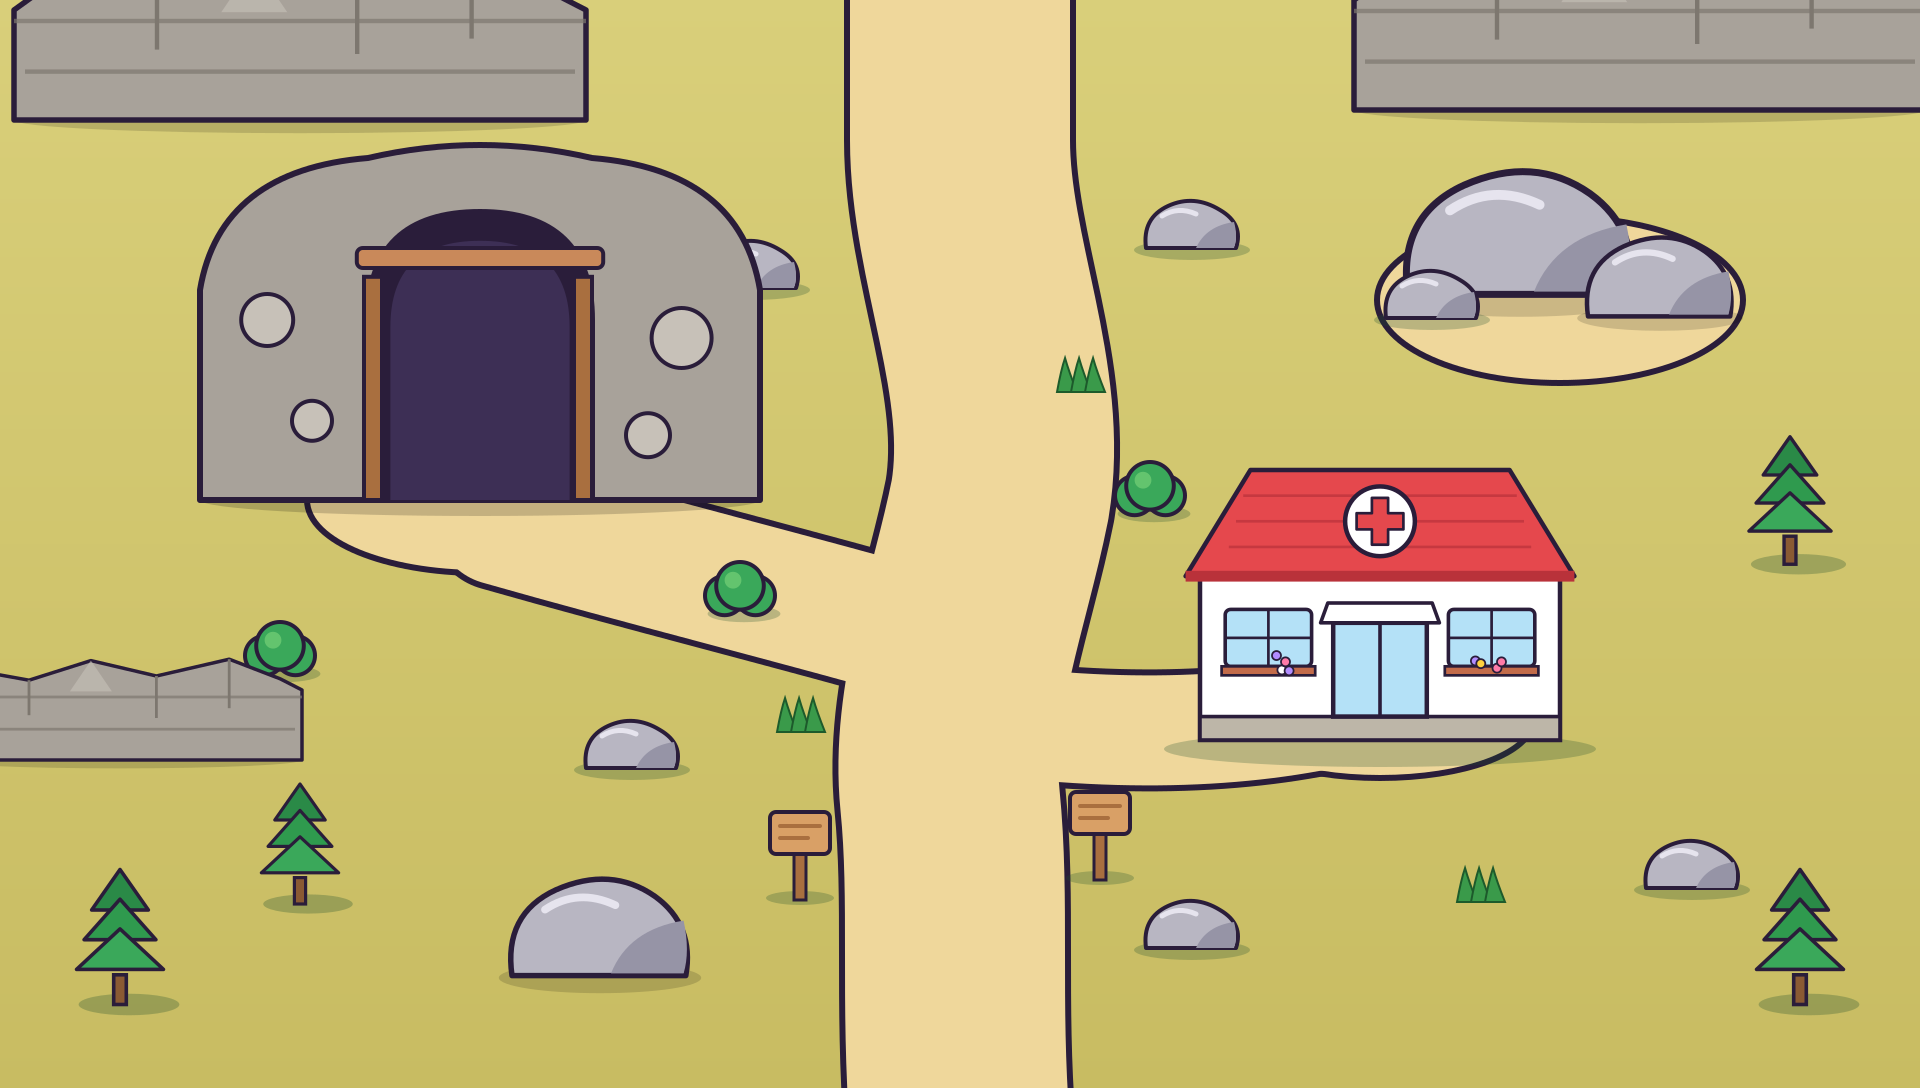
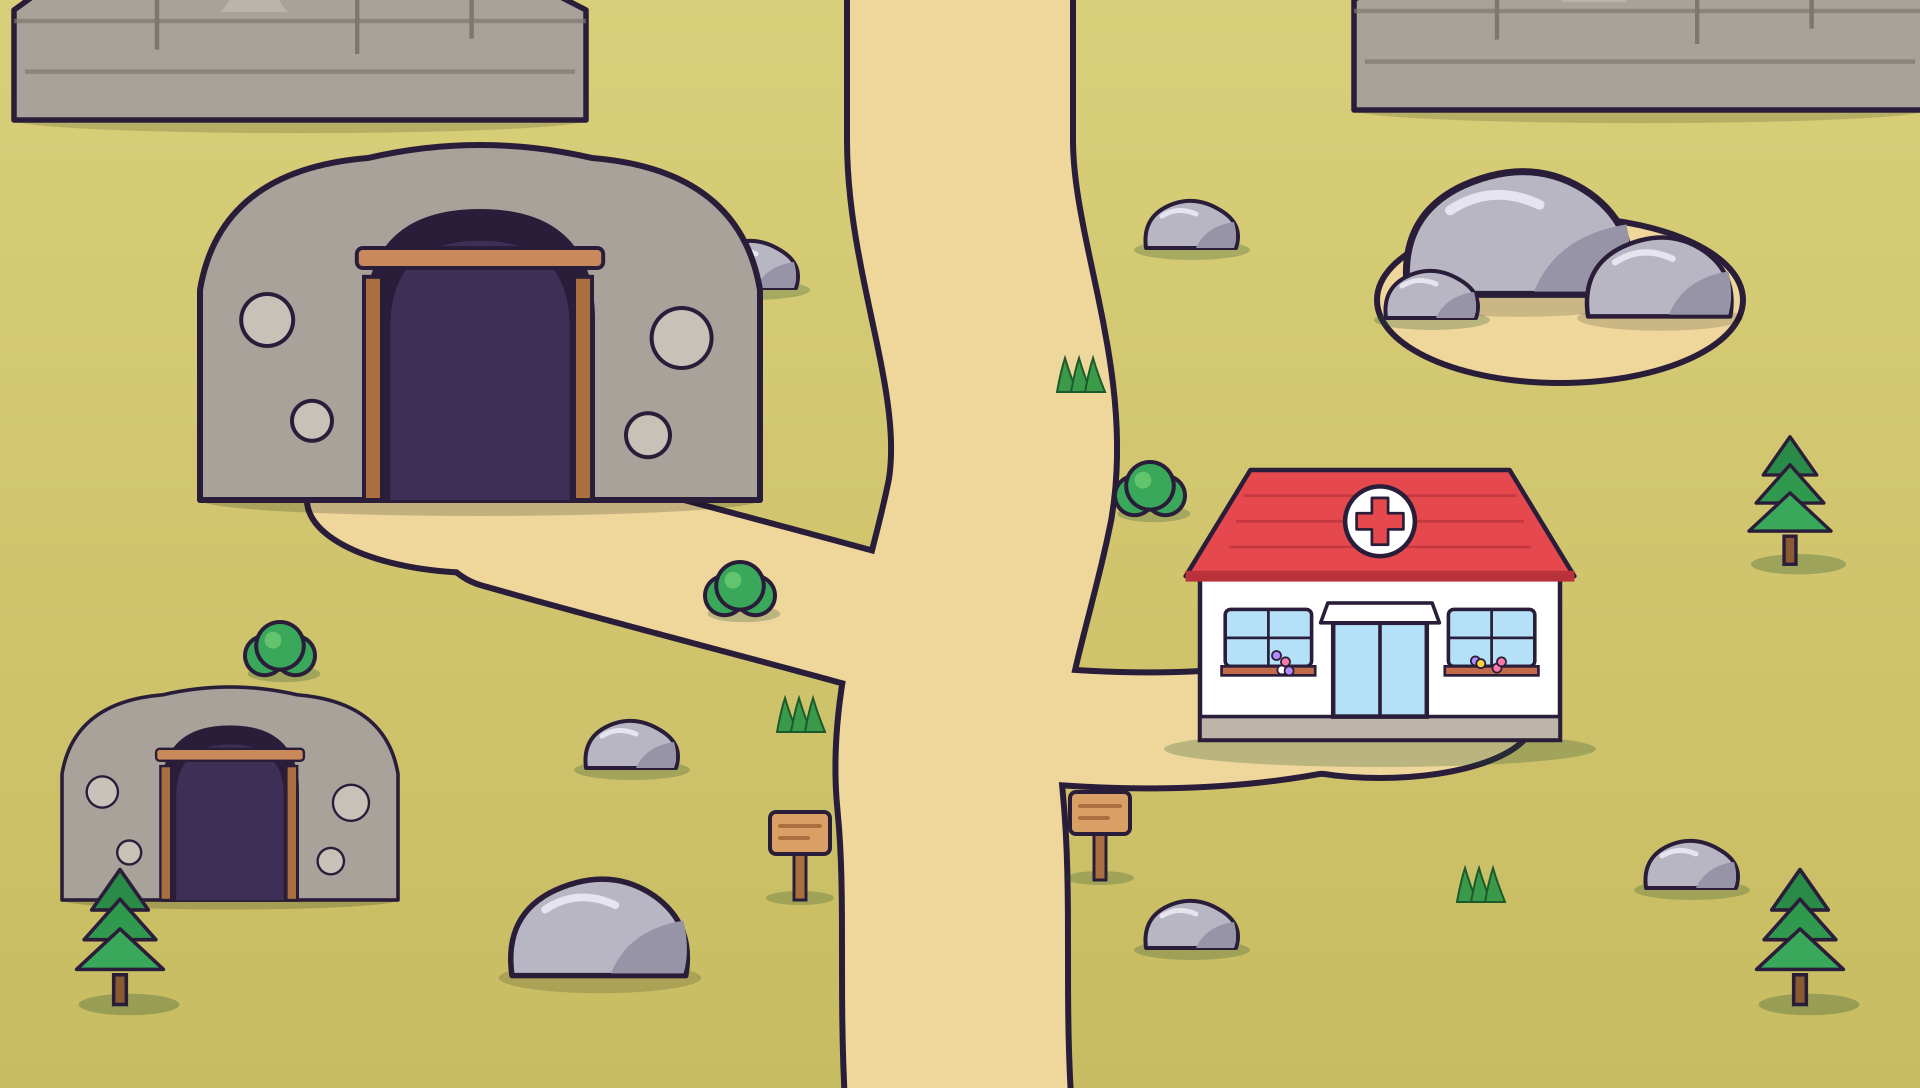
Arte: Monte Moon B1F, escena base en vector con el kit (#415) (#580)
Claude-Session: https://claude.ai/code/session_01CiFZA6cMeaaQVP55CFUG1f

Changed region(s): [[0.0, 0.5938, 0.2188, 0.8438]]

diff --git a/docs/diseno-ui/escenas/kit/generar_sprites.py b/docs/diseno-ui/escenas/kit/generar_sprites.py
@@ -243,6 +243,23 @@ def cueva_entrada():
     o += f'<rect x="{p+w*.28}" y="{p+h*.3}" width="{w*.44}" height="20" rx="6" fill="#c9895a" stroke="{INK}" stroke-width="4"/>'
     for x, y, r_ in ((.12, .5, 26), (.86, .55, 30), (.2, .78, 20), (.8, .82, 22)): o += f'<circle cx="{p+w*x}" cy="{p+h*y}" r="{r_}" fill="#c7c1b8" stroke="{INK}" stroke-width="4"/>'
     sprite("cueva-entrada", w, h, o, [{"id": "puerta", "tipo": "puerta", "rect": [p + w * .3, p + h * .2, w * .4, h * .8]}], "Entrada de cueva (Monte Moon): montículo de roca con boca oscura y vigas de madera. Zona puerta → ir a la galería.")
+def estalagmita(id="estalagmita", h=140, nota="Estalagmita de cueva."):
+    p = PAD; w = 70
+    o = f'<ellipse cx="{p+w/2}" cy="{p+h}" rx="{w*.62}" ry="9" fill="#000" opacity=".25"/><path d="M{p} {p+h} L{p+w*.3} {p+h*.25} L{p+w*.5} {p} L{p+w*.7} {p+h*.3} L{p+w} {p+h}z" fill="#8a8499" stroke="{INK}" stroke-width="5" stroke-linejoin="round"/><path d="M{p+w*.5} {p} L{p+w*.4} {p+h*.7}" stroke="#b6b1c4" stroke-width="6" stroke-linecap="round"/>'
+    sprite(id, w, h, o, [], nota)
+def estalactita():
+    p = PAD; w, h = 80, 120
+    o = f'<path d="M{p} {p} L{p+w} {p} L{p+w*.58} {p+h*.7} L{p+w*.5} {p+h} L{p+w*.42} {p+h*.7}z" fill="#8a8499" stroke="{INK}" stroke-width="5" stroke-linejoin="round"/><path d="M{p+w*.3} {p+6} L{p+w*.45} {p+h*.7}" stroke="#b6b1c4" stroke-width="5" stroke-linecap="round"/>'
+    sprite("estalactita", w, h, o, [], "Estalactita colgante (se coloca con el ancla en la punta de arriba del techo; aquí el ancla es la base del sprite).")
+def setas_grandes():
+    p = PAD; w, h = 420, 260
+    o = f'<ellipse cx="{p+w/2}" cy="{p+h*.55}" rx="{w/2}" ry="{h*.5}" fill="#5a4a6e" stroke="{INK}" stroke-width="6"/><ellipse cx="{p+w/2}" cy="{p+h*.55}" rx="{w/2-24}" ry="{h*.5-22}" fill="#6c5a83"/>'
+    r = random.Random(21)
+    for i in range(16):
+        x = p + 60 + r.random() * (w - 120); y = p + 60 + r.random() * (h * .8 - 60); k = r.uniform(.8, 1.4)
+        c = r.choice(["#e0453c", "#e8a23b", "#c9d36b"])
+        o += f'<rect x="{x-5*k}" y="{y}" width="{10*k}" height="{22*k}" rx="3" fill="#f4efe6" stroke="{INK}" stroke-width="3"/><path d="M{x-22*k} {y+4} q{22*k} {-34*k} {44*k} 0z" fill="{c}" stroke="{INK}" stroke-width="3"/><circle cx="{x-6*k}" cy="{y-6*k}" r="{3*k}" fill="#fff"/><circle cx="{x+8*k}" cy="{y-10*k}" r="{3*k}" fill="#fff"/>'
+    sprite("setas-grandes", w, h, o, [{"id": "cuerpo", "tipo": "combate", "rect": [p, p, w, h]}], "Alfombra de setas (zona de combate salvaje: Paras).")
 os.makedirs("sprites", exist_ok=True)
 laboratorio()
 casa("casa-jugador", 250, 200, "#f08a3c", "#c96a22", "Casa del jugador: tejado naranja. Lleva el buzón aparte (sprite buzon).")
@@ -261,5 +278,6 @@ gimnasio_exterior("gimnasio-agua-exterior", {"#5f6672":"#3f7fd0","#474d58":"#2f6
 piscina()
 puente_largo()
 cueva_entrada()
+estalagmita("estalagmita", 140); estalagmita("estalagmita-baja", 90, "Estalagmita baja de cueva."); estalactita(); setas_grandes()
 json.dump(CAT, open("sprites.json", "w"), ensure_ascii=False, indent=2)
 print(len(CAT), "sprites")

diff --git a/docs/diseno-ui/escenas/kit/componer.py b/docs/diseno-ui/escenas/kit/componer.py
@@ -64,6 +64,13 @@ def main(ruta):
         pared += f'<path d="M0 300 H{W}" stroke="{INK}" stroke-width="8"/>'
         body = f'<rect y="300" width="{W}" height="{H-300}" fill="url(#azulejos)"/>' + pared + body
         defs_x = sue
+    elif fondo == "suelo-cueva":
+        sue = '<pattern id="cueva" width="140" height="100" patternUnits="userSpaceOnUse"><rect width="140" height="100" fill="#4b4260"/><path d="M0 0 H140 M0 50 H140 M70 0 V50 M0 50 V100 M140 50 V100" stroke="#3d3550" stroke-width="3" fill="none"/><circle cx="30" cy="30" r="6" fill="#574d6d"/><circle cx="100" cy="76" r="8" fill="#574d6d"/></pattern>'
+        pared = f'<rect y="0" width="{W}" height="290" fill="#2f2840"/>'
+        for x in range(0, W, 180): pared += f'<path d="M{x} 290 L{x+60} 40 L{x+120} 290" fill="#3a3250" stroke="#241d33" stroke-width="4"/>'
+        pared += f'<path d="M0 290 H{W}" stroke="{INK}" stroke-width="8"/>'
+        body = f'<rect y="290" width="{W}" height="{H-290}" fill="url(#cueva)"/>' + pared + body
+        defs_x = sue
     elif fondo == "seco":
         defs_x = '<linearGradient id="seco" x1="0" y1="0" x2="0" y2="1"><stop offset="0" stop-color="#d9cf7a"/><stop offset="1" stop-color="#c8bc62"/></linearGradient>'
     else: defs_x = ""

diff --git a/docs/diseno-ui/escenas/kit/README.md b/docs/diseno-ui/escenas/kit/README.md
@@ -34,8 +34,9 @@ Sprites sueltos y un compositor, para que lo que sale en varias pantallas se vea
 | `piscina-gimnasio` | Piscina de combate con tres plataformas (zona `cuerpo` → combate) | nuevo | Gimnasio de Celeste |
 | `puente-largo` | Puente de piedra largo (cenital, vertical) para ríos anchos | nuevo | Ruta 24 |
 | `cueva-entrada` | Boca de cueva con vigas (zona `puerta` → galería) | nuevo | Monte Moon |
+| `estalagmita`, `estalagmita-baja`, `estalactita`, `setas-grandes` | Interior de cueva; las setas llevan zona `cuerpo` → combate | nuevos | Monte Moon B1F |
 
-Fondos de escena: `cesped` (por defecto), `seco` (hierba seca dorada), `suelo-gimnasio` (interior de piedra), `suelo-agua` (interior de azulejos azules) y `suelo-centro` (interior con pared y losas).
+Fondos de escena: `cesped` (por defecto), `seco` (hierba seca dorada), `suelo-gimnasio` (interior de piedra), `suelo-agua` (interior de azulejos azules), `suelo-cueva` (cueva oscura) y `suelo-centro` (interior con pared y losas).
 
 Materiales de camino: `tierra`, `piedra`, `hierba` y `agua` (río, con brillos) (en `componer.py`).
 
